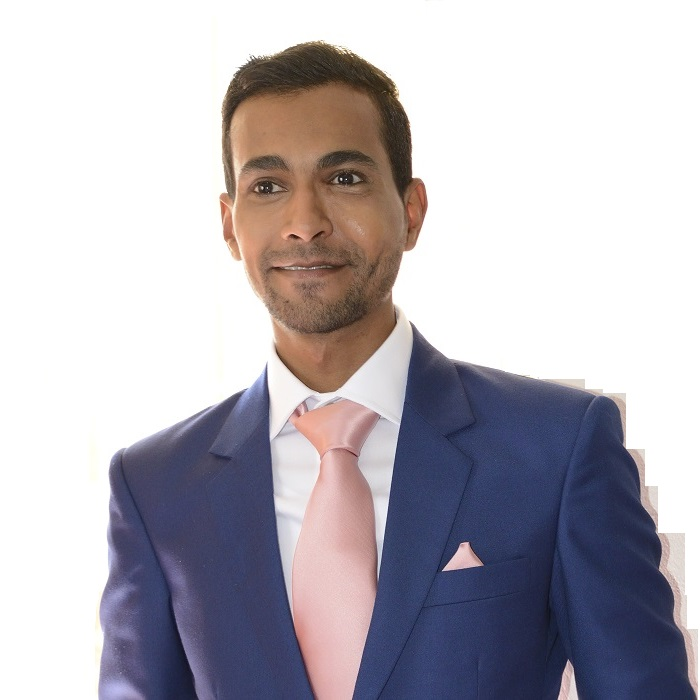
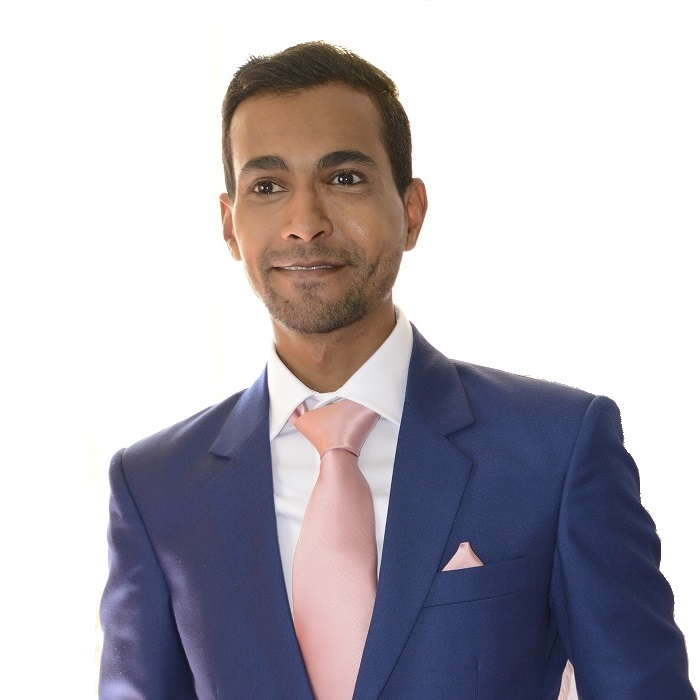
refactoring

Changed region(s): [[0.9, 0.63, 1.0, 0.99], [0.78, 0.54, 0.9, 0.63]]

diff --git a/index.html b/index.html
@@ -21,12 +21,13 @@
     <!-- <link rel="preload" href="css/style.css" media="print" onload="this.rel='stylesheet';this.media='all';"> -->
     <link rel="preload" href="https://fonts.googleapis.com/css2?family=Poppins:wght@400;500;600&display=swap" as="style"
         onload="this.onload=null;this.rel='stylesheet'" crossorigin>
+        <link rel="prefetch" href="/images/muhammad-ahmod.webp" />
 
     <link rel="icon" href="favicon.ico" type="image/x-icon" />
     <link rel="manifest" href="/manifest.json">
 
     <!-- Normalize.min.css -->
-    <style>html{line-height:1.15;-webkit-text-size-adjust:100%}body{margin:0}main{display:block}h1{font-size:2em;margin:.67em 0}hr{box-sizing:content-box;height:0;overflow:visible}pre{font-family:monospace,monospace;font-size:1em}a{background-color:transparent}abbr[title]{border-bottom:none;text-decoration:underline;text-decoration:underline dotted}b,strong{font-weight:bolder}code,kbd,samp{font-family:monospace,monospace;font-size:1em}small{font-size:80%}sub,sup{font-size:75%;line-height:0;position:relative;vertical-align:baseline}sub{bottom:-.25em}sup{top:-.5em}img{border-style:none}button,input,optgroup,select,textarea{font-family:inherit;font-size:100%;line-height:1.15;margin:0}button,input{overflow:visible}button,select{text-transform:none}[type=button],[type=reset],[type=submit],button{-webkit-appearance:button}[type=button]::-moz-focus-inner,[type=reset]::-moz-focus-inner,[type=submit]::-moz-focus-inner,button::-moz-focus-inner{border-style:none;padding:0}[type=button]:-moz-focusring,[type=reset]:-moz-focusring,[type=submit]:-moz-focusring,button:-moz-focusring{outline:1px dotted ButtonText}fieldset{padding:.35em .75em .625em}legend{box-sizing:border-box;color:inherit;display:table;max-width:100%;padding:0;white-space:normal}progress{vertical-align:baseline}textarea{overflow:auto}[type=checkbox],[type=radio]{box-sizing:border-box;padding:0}[type=number]::-webkit-inner-spin-button,[type=number]::-webkit-outer-spin-button{height:auto}[type=search]{-webkit-appearance:textfield;outline-offset:-2px}[type=search]::-webkit-search-decoration{-webkit-appearance:none}::-webkit-file-upload-button{-webkit-appearance:button;font:inherit}details{display:block}summary{display:list-item}template{display:none}[hidden]{display:none}</style>
+    <style>html{line-height:1.15;-webkit-text-size-adjust:100%}body{margin:0}main{display:block}h1{font-size:2em;margin:.67em 0}hr{box-sizing:content-box;height:0;overflow:visible}pre{font-family:monospace,monospace;font-size:1em}a{text-decoration:none;background-color:transparent}abbr[title]{border-bottom:none;text-decoration:underline;text-decoration:underline dotted}b,strong{font-weight:bolder}code,kbd,samp{font-family:monospace,monospace;font-size:1em}small{font-size:80%}sub,sup{font-size:75%;line-height:0;position:relative;vertical-align:baseline}sub{bottom:-.25em}sup{top:-.5em}img{border-style:none}button,input,optgroup,select,textarea{font-family:inherit;font-size:100%;line-height:1.15;margin:0}button,input{overflow:visible}button,select{text-transform:none}[type=button],[type=reset],[type=submit],button{-webkit-appearance:button}[type=button]::-moz-focus-inner,[type=reset]::-moz-focus-inner,[type=submit]::-moz-focus-inner,button::-moz-focus-inner{border-style:none;padding:0}[type=button]:-moz-focusring,[type=reset]:-moz-focusring,[type=submit]:-moz-focusring,button:-moz-focusring{outline:1px dotted ButtonText}fieldset{padding:.35em .75em .625em}legend{box-sizing:border-box;color:inherit;display:table;max-width:100%;padding:0;white-space:normal}progress{vertical-align:baseline}textarea{overflow:auto}[type=checkbox],[type=radio]{box-sizing:border-box;padding:0}[type=number]::-webkit-inner-spin-button,[type=number]::-webkit-outer-spin-button{height:auto}[type=search]{-webkit-appearance:textfield;outline-offset:-2px}[type=search]::-webkit-search-decoration{-webkit-appearance:none}::-webkit-file-upload-button{-webkit-appearance:button;font:inherit}details{display:block}summary{display:list-item}template{display:none}[hidden]{display:none}</style>
 
     <!-- Style Configs -->
     <style>
@@ -153,7 +154,6 @@
             background-color: #4c4c4c;
     padding: 8px;
     border-radius: 25px;
-    margin-right: 4px;
         }
         .icon {
             width: 18px;
@@ -255,7 +255,7 @@ main .container{
   align-items: center;
   justify-content: center;
   
-  background-image: url("/images/muhammad-ahmod.jpg"); /* The image used */
+  background-image: url("/images/muhammad-ahmod.webp"); /* The image used */
   background-color: #cccccc; /* Used if the image is unavailable */
   background-position: center; /* Center the image */
   background-repeat: no-repeat; /* Do not repeat the image */
@@ -291,7 +291,7 @@ main .container{
     display: flex;
     align-items: center;
     justify-content: center;
-            border: 2px solid #2196f3;
+            border: 2px solid #1673bd;
         }
 
         .intro-footer ul li a{
@@ -301,7 +301,7 @@ main .container{
         }
 
         .intro-footer ul li:last-child, .intro-footer ul li:nth-last-child(2) {
-    background-color: #2196f3;
+    background-color: #1673bd;
     color: #ffffff;
         }
     
@@ -325,7 +325,7 @@ main .container{
         }
     
         h4.sub-title {
-            background-color: #2196f3;
+            background-color: #1673bd;
             width: fit-content;
             padding: 2px 10px;
             border-radius: 7px;
@@ -406,7 +406,7 @@ main .container{
                 </div>
                 <div class="intro">
                     <div class="intro-header">
-                        <h4 class="sub-title">[ Full-Stack Web Developer ]</h4>
+                        <a href="https://en.wikipedia.org/wiki/Web_developer" target="_blank" title="wikipedia" rel="noopener"><h4 class="sub-title">[ Full-Stack Web Developer ]</h4></a>
                         <h1 class="name">Muhammad Ahmod</h1>
                     </div>
                     <div class="intro-body">
